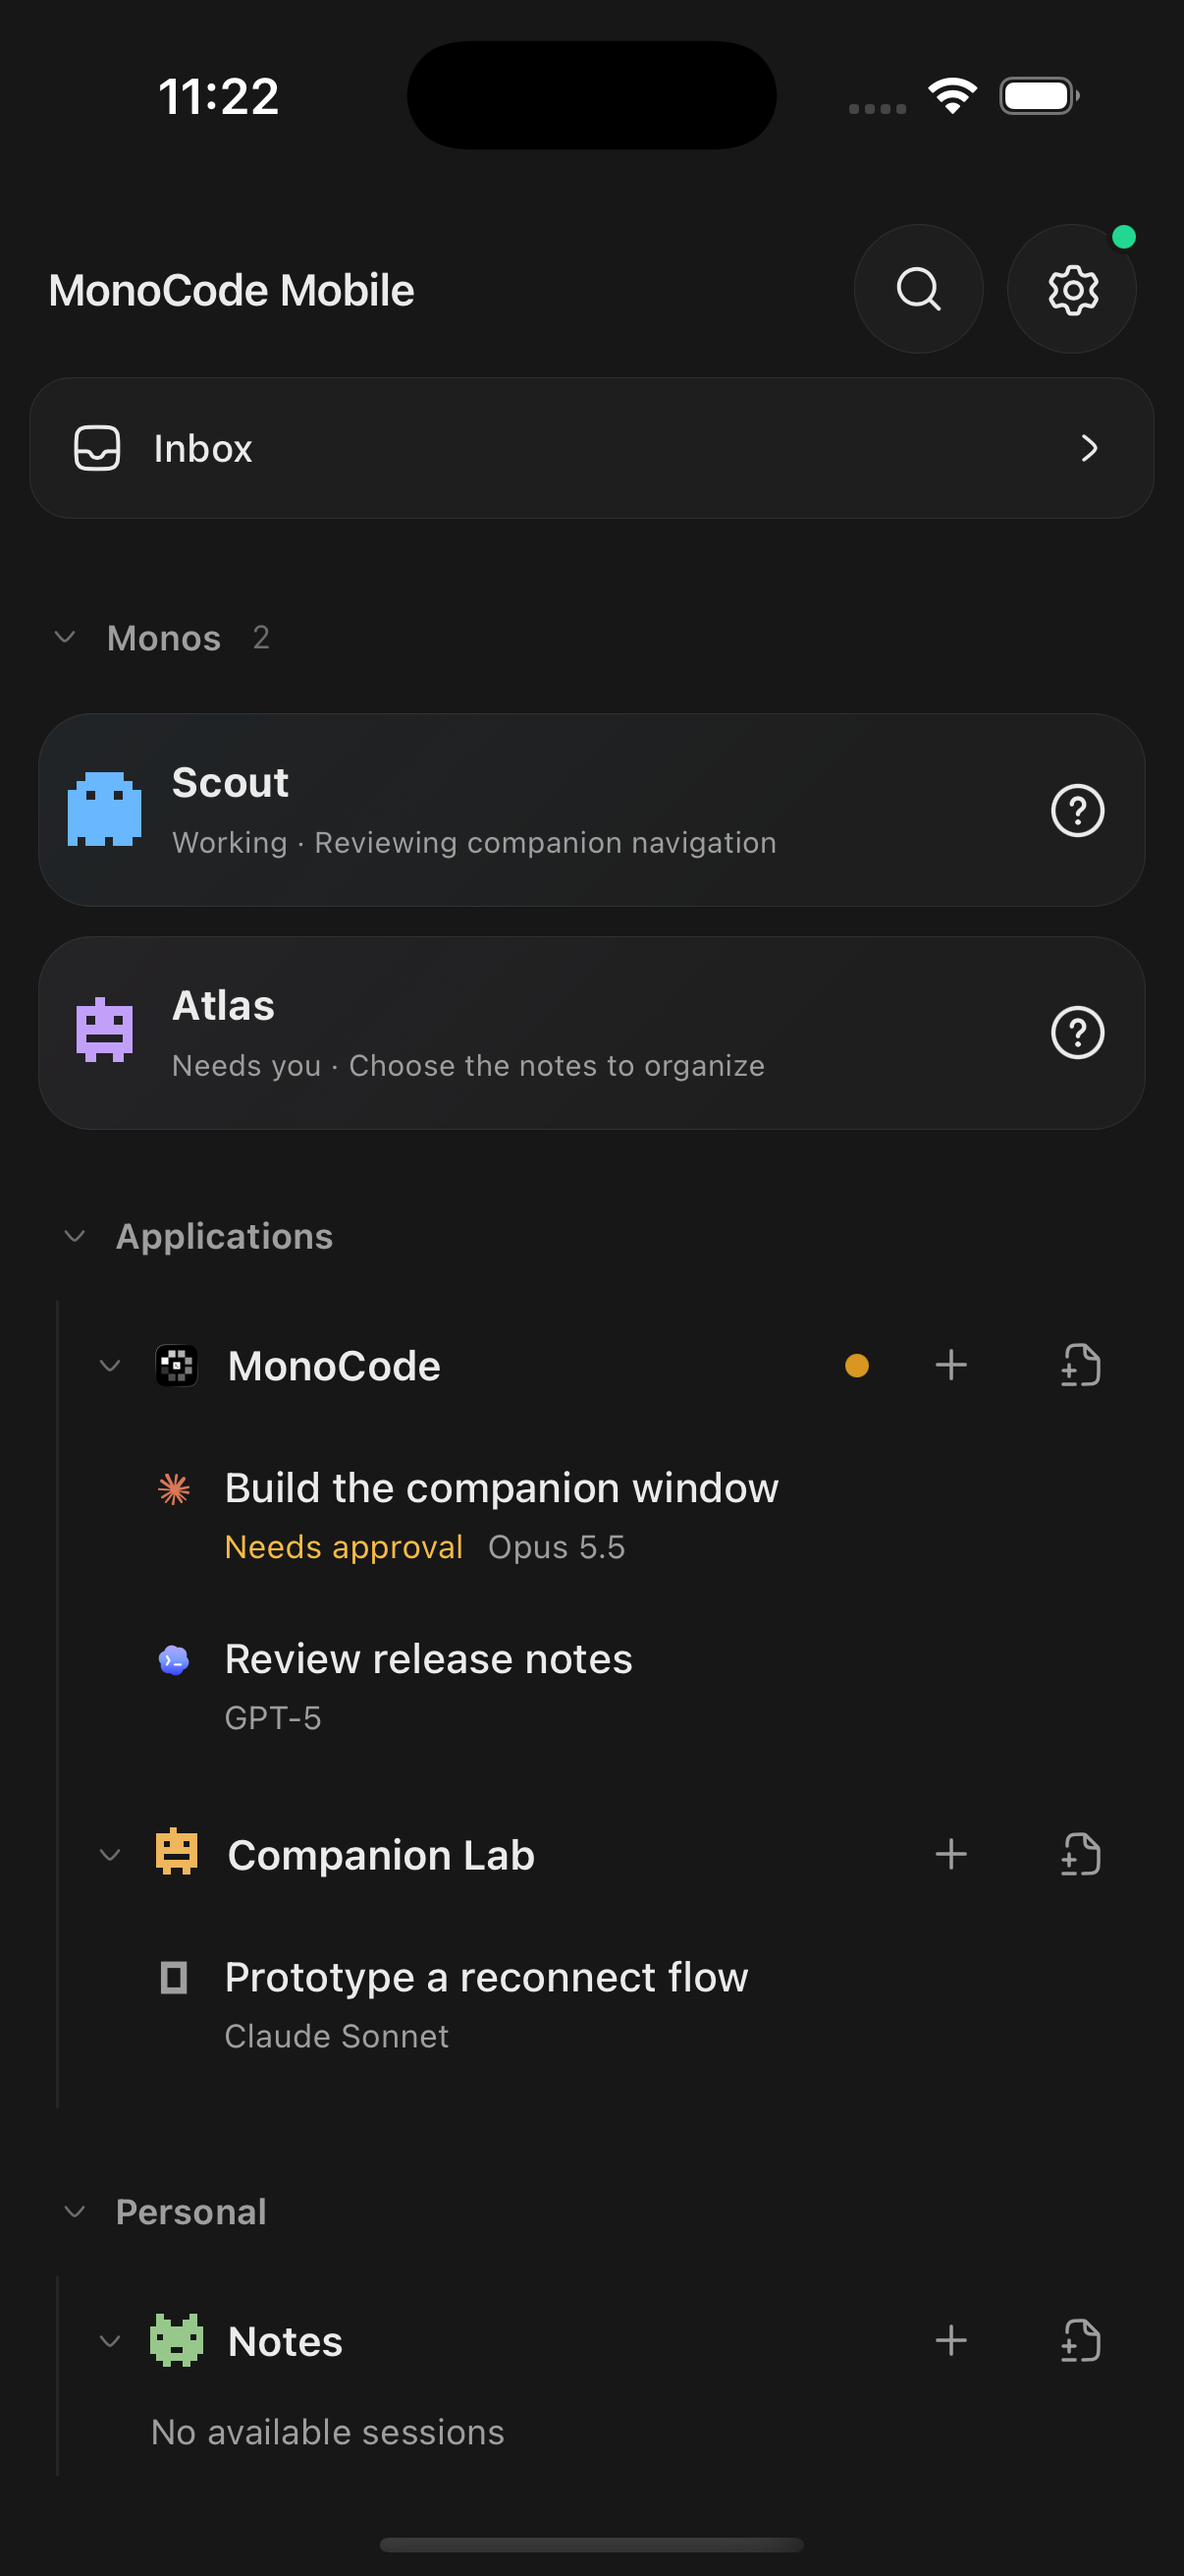
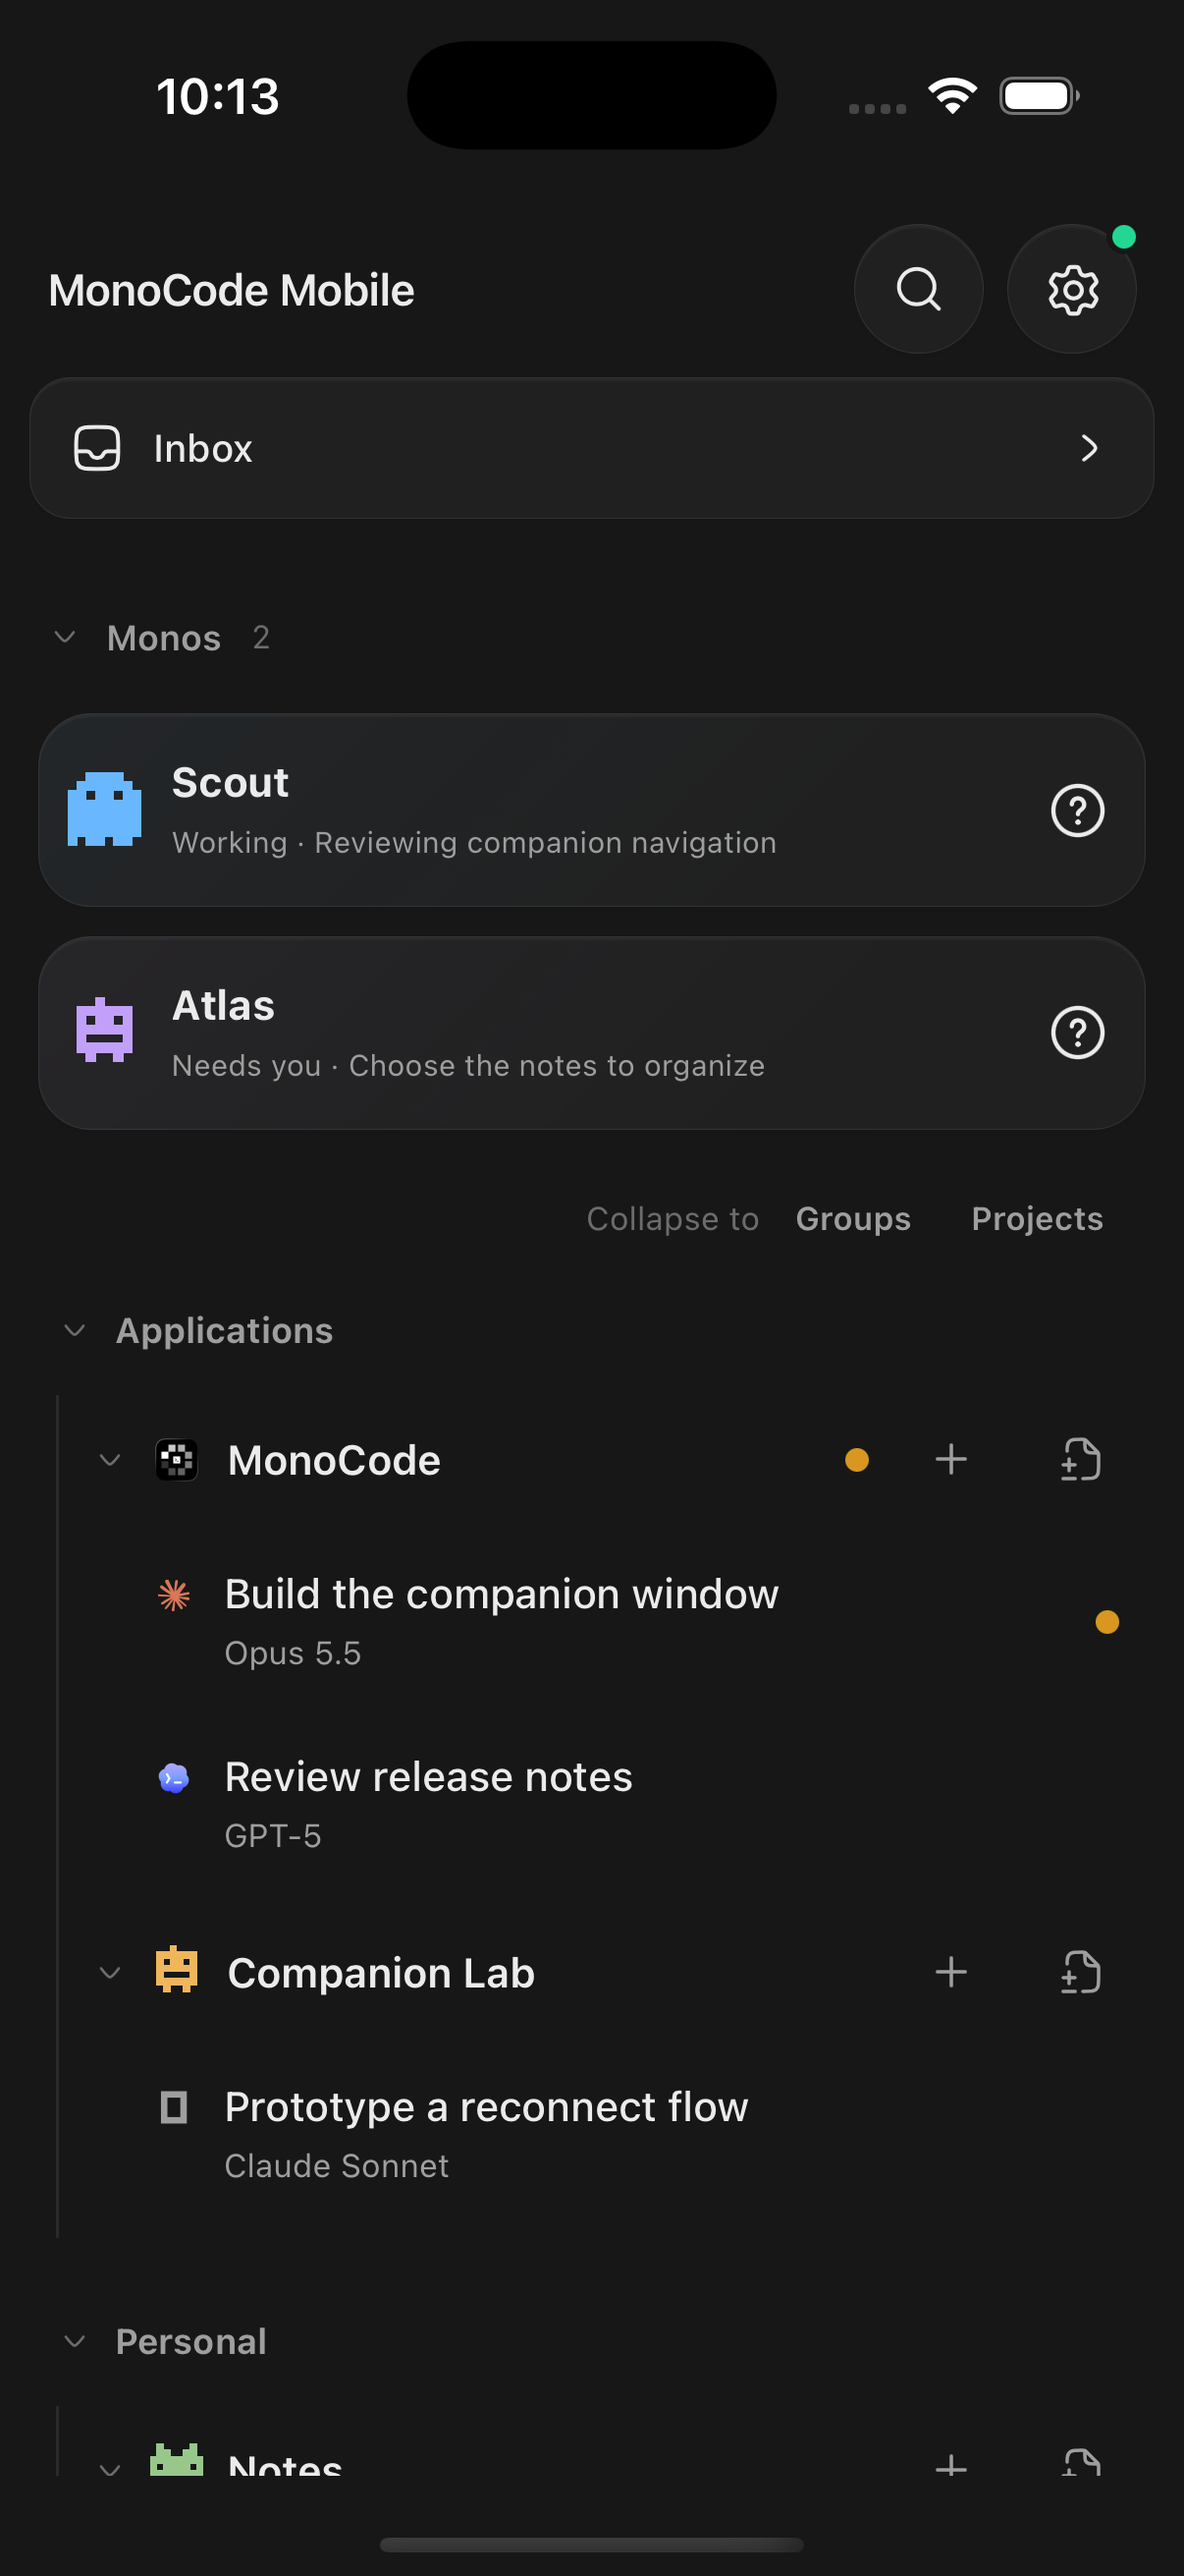
docs: refresh mobile screenshots for current design (#10)

diff --git a/README.md b/README.md
@@ -158,7 +158,7 @@ Same-session messaging over cellular and after locking/reopening the phone has b
 
 ## Screenshots
 
-These iPhone Simulator captures use a sample workspace on iOS 18.6. They illustrate the companion flow and predate the latest Settings/navigation changes. No live conversations, provider accounts, or pairing tickets are shown.
+Captured October 14, 2026, these unedited iPhone Simulator screenshots show the current mobile design using a sample workspace on iOS 18.6. Settings and pairing include sample-mode preview controls. No live conversations, provider accounts, or pairing tickets are shown.
 
 <table>
   <tr><th>Workspace and Monos</th><th>Chat and approvals</th></tr>
@@ -166,10 +166,15 @@ These iPhone Simulator captures use a sample workspace on iOS 18.6. They illustr
     <td><img src="docs/companion/screenshots/workspace.png" alt="iPhone workspace with Monos, grouped projects, and sessions" width="290" /></td>
     <td><img src="docs/companion/screenshots/chat-approval.png" alt="iPhone conversation with Allow, Deny, and Stop controls" width="290" /></td>
   </tr>
-  <tr><th>Read-only Inbox</th><th>QR pairing setup</th></tr>
+  <tr><th>Settings and connection</th><th>QR pairing setup</th></tr>
   <tr>
-    <td><img src="docs/companion/screenshots/inbox.png" alt="iPhone Inbox with sample items" width="290" /></td>
+    <td><img src="docs/companion/screenshots/settings.png" alt="Full-page iPhone Settings with icon-only Back, Connection first, appearance choices, and sample-mode preview controls" width="290" /></td>
     <td><img src="docs/companion/screenshots/pairing-setup.png" alt="iPhone connection setup and Scan QR ticket control" width="290" /></td>
+  </tr>
+  <tr><th>Read-only Inbox</th><th>Read-only file diff</th></tr>
+  <tr>
+    <td><img src="docs/companion/screenshots/inbox.png" alt="iPhone Inbox with sample GitHub and Linear items" width="290" /></td>
+    <td><img src="docs/companion/screenshots/changes.png" alt="iPhone read-only sample file diff with added and removed lines" width="290" /></td>
   </tr>
 </table>
 
